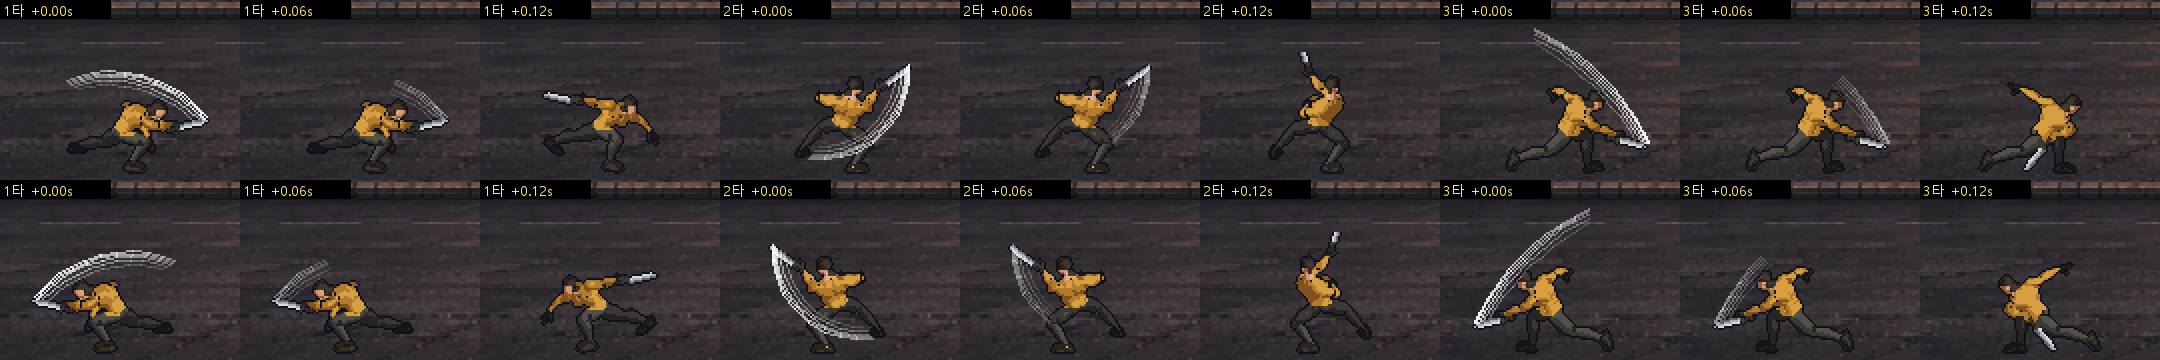
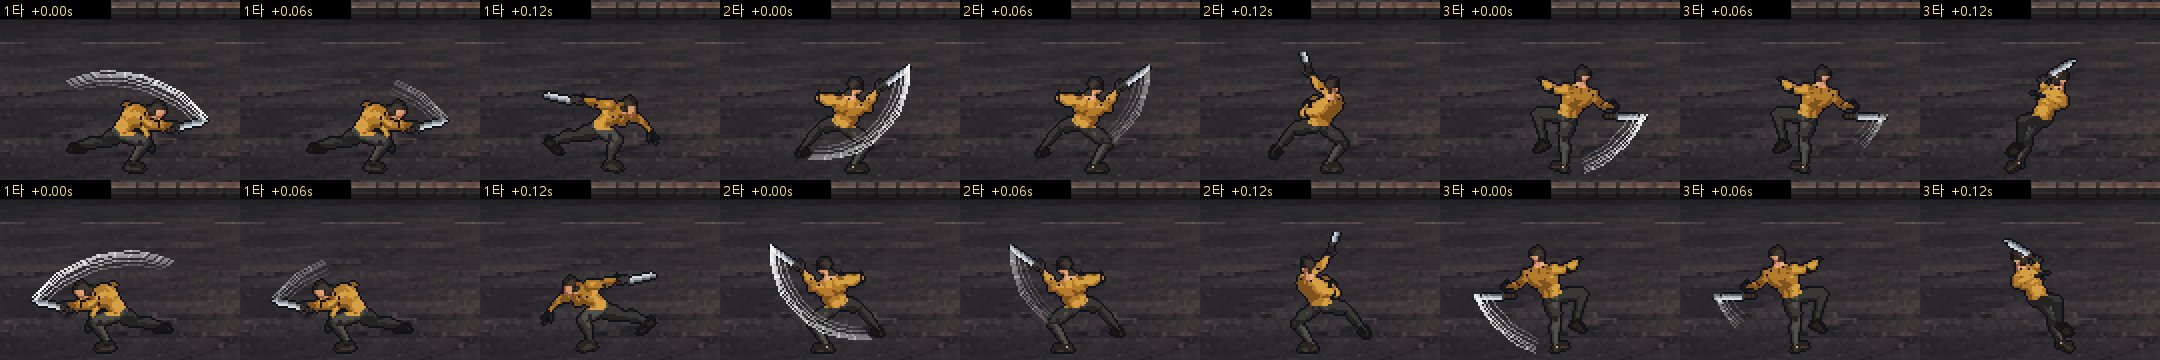
3타를 찌르기로, 크게 내려치기는 연속 베기 해제 전용(finisher)

diff --git a/tools/blender/render_character.py b/tools/blender/render_character.py
@@ -31,14 +31,15 @@ PASSES = [
      ["idle=4", "sneak_idle=4", "walk=12", "sneak=12", "run=12", "hurt=3", "down=5", "pickup=4"],
      ["--shift-for", "down=16"]),
     (LIB2,
-     # Machete combo (user order 2026-11-12, "1st sweep, 2nd rising cut, 3rd chop down"):
-     # 1st a quick sweep (B, wind-up cut off), 2nd the rising cut (A from its crouch on,
-     # fewer frames), 3rd the finisher of the pack's own combo (Sword_Regular_Combo: after
-     # A and B it raises the blade overhead and steps in with a diagonal chop), so all three
-     # come from one animated combo and flow together (2026-11-13: Sword_Attack did not).
+     # Machete combo: 1st a quick sweep (B, wind-up cut off), 2nd the rising cut (A from its
+     # crouch on, fewer frames), 3rd a thrust (C up to the stab, its end as the recovery) -
+     # 2026-11-13 "the 3rd hit is too dynamic, make it like the 1st and 2nd".
+     # finisher: the big overhead chop (the finisher of the pack's own Sword_Regular_Combo),
+     # now only for the time-warp release that looses the flurry.
      ["swing=Sword_Regular_B@2-13,Sword_Regular_B_Rec", "swing2=Sword_Regular_A@4-,Sword_Regular_A_Rec@7-23",
-      "swing3=Sword_Regular_Combo@31.5-34.5,Sword_Regular_Combo@37.6-41,Sword_Regular_Combo@51-72"],
-     ["swing=4,3", "swing2=4,3", "swing3=2,2,3"],
+      "swing3=Sword_Regular_C@0-8,Sword_Regular_C@30-48",
+      "finisher=Sword_Regular_Combo@31.5-34.5,Sword_Regular_Combo@37.6-41,Sword_Regular_Combo@51-72"],
+     ["swing=4,3", "swing2=4,3", "swing3=4,3", "finisher=2,2,3"],
      []),
 ]
 

diff --git a/src/weapon.py b/src/weapon.py
@@ -22,8 +22,9 @@ Swing = namedtuple("Swing", "sheet duration contact damage reach depth arc push 
 # (combo finisher) that lands one feel class harder (hit-stop, shake, number; see hit_feel);
 # step: px the attacker steps forward into the blow (the art's lunge is pinned in place).
 
-Weapon = namedtuple("Weapon", "name swings combo_window sneak_multiplier")
-# combo_window: seconds after a swing's recovery starts in which a click continues the combo.
+Weapon = namedtuple("Weapon", "name swings combo_window sneak_multiplier finisher", defaults=(None,))
+# combo_window: seconds after a swing's recovery starts in which a click continues the combo;
+# finisher: the big blow the time-warp release swings (it looses the flurry, flurry.py).
 
 MACHETE = Weapon(
     name="마체테",
@@ -31,10 +32,11 @@ MACHETE = Weapon(
         # 1st and 2nd: quick, light blows; 3rd: the big chop with a real wind-up.
         Swing("swing", 0.46, 0.14, 2, 42, 20, pi / 3, 110, 0.72, False),    # quick sweep
         Swing("swing2", 0.50, 0.16, 2, 46, 22, pi / 3, 110, 0.73, False),   # rising cut
-        Swing("swing3", 0.68, 0.28, 6, 50, 24, pi / 3, 340, 0.74, True),    # finisher: overhead chop (in place)
+        Swing("swing3", 0.50, 0.20, 6, 46, 22, pi / 3, 260, 0.70, True),    # thrust (combo end)
     ),
     combo_window=0.25,
     sneak_multiplier=3,
+    finisher=Swing("finisher", 0.68, 0.28, 6, 50, 24, pi / 3, 340, 0.74, True),   # overhead chop
 )
 
 IMPACT_TIME = 0.18

diff --git a/src/player.py b/src/player.py
@@ -139,12 +139,12 @@ class Player:
             self.pick_up()
 
     def start_finisher(self):
-        """The time-warp release: the weapon's last swing, marked to loose a flurry."""
+        """The time-warp release: the weapon's finisher, marked to loose a flurry."""
         if self.state not in FREE_STATES:
             return False
         self.attack()
-        index = len(self.weapon.swings) - 1
-        self.swing = weapon.MeleeAttack(self.weapon.swings[index], (self.direction, 0), index)
+        index = len(self.weapon.swings) - 1          # no combo continues after it
+        self.swing = weapon.MeleeAttack(self.weapon.finisher, (self.direction, 0), index)
         self.swing.flurry = True
         return True
 
@@ -322,7 +322,7 @@ class Player:
     def draw_body(self):
         if self.charging:
             # The finisher's raised blade, held while the charge builds.
-            finisher = self.weapon.swings[-1]
+            finisher = self.weapon.finisher
             contact = finisher.contact / finisher.duration
             self.draw_pose(finisher.sheet, contact * 0.8, contact)
             return

diff --git a/assets/characters/CHARACTER_WORKFLOW.md b/assets/characters/CHARACTER_WORKFLOW.md
@@ -131,7 +131,8 @@
 | sneak | `Walk_Loop` 위에 `Crouch_Idle_Loop`를 30% 얹음(`Walk_Loop+Crouch_Idle_Loop*0.3`) | 12 | 2026-11-11 30%로 조정(처음 40%), 6→12칸. 섞을 때는 COMBINE(회전을 곱해 더함)을 써야 함. 단순 평균(REPLACE)은 다리가 뒤로 뒤집힘 |
 | swing (1타) | `Sword_Regular_B@2-13` 4칸 + 복귀 `Sword_Regular_B_Rec` 3칸 (두 번째 팩 UAL2) | 7 | 빠른 가로 베기(준비 동작 잘라냄). 맞는 칸 인덱스 1, `hold` 0.35. 2026-11-12 "첫 번째 동작을 가로 베기로" → 다시 1타 |
 | swing2 (2타) | `Sword_Regular_A@4-` 4칸 + 복귀 `Sword_Regular_A_Rec@7-23` 3칸 | 7 | 올려 베기: 숙인 자세에서 칼이 앞으로 올라감. 맞는 칸 인덱스 1, `hold` 0.35. 2026-11-12 "2타 올려 베기"로 3타에서 옮기며 6칸 → 4칸 |
-| swing3 (3타) | `Sword_Regular_Combo@31.5-34.5` 2칸 + `@37.6-41` 2칸 + `@51-72` 3칸 (두 번째 팩 UAL2) | 7 | 마무리 내려치기: 동작 팩의 3연타(`Sword_Regular_Combo` = 올려 베기 A → 가로 베기 B → 마무리)의 마지막 타. 2타가 끝난 칼을 든 자세에서 이어서 머리 위로 들었다(버팀) 파고들며 앞으로 내려침. 맞는 칸 인덱스 2, `hold` 0.3, `windup` [1, 1.8], `trail_from` 1. 2026-11-13 "3번째 동작 흐름이 1·2번과 안 어울린다"로 `Sword_Attack`(첫 번째 팩, 다른 화풍의 동작)에서 바꿈 |
+| swing3 (3타) | `Sword_Regular_C@0-8` 4칸 + `@30-48` 3칸 (두 번째 팩 UAL2) | 7 | 찌르기: 뒤로 빼기 → 내리기 → 앞으로 찌르기. 맞는 칸 인덱스 2, `hold` 0.35. 2026-11-13 "3타가 너무 다이내믹, 1·2번과 비슷하게"로 연타 마무리 내려치기에서 바꿈 |
+| finisher (연속 베기 해제) | `Sword_Regular_Combo@31.5-34.5` 2칸 + `@37.6-41` 2칸 + `@51-72` 3칸 | 7 | 머리 위로 들었다 내려치기(동작 팩 3연타의 마무리). 우클릭을 떼면 이 동작과 함께 연속 베기가 나간다. 맞는 칸 인덱스 2, `hold` 0.3, `windup` [1, 1.8], `trail_from` 1 |
 | run | `Jog_Fwd_Loop` | 12 | 2026-11-12 뛰기. 원래 5.87m/s(한 바퀴 0.92초에 5.39m), 게임 4.8m/s에서 걸은 거리로 재생 |
 | sneak_idle | `Idle_Loop` 위에 `Crouch_Idle_Loop`를 40% 얹음 | 4 | Shift만 누르고 서 있을 때. 시트가 없는 캐릭터는 `sneak` 첫 칸으로 대신함(`character_look.FALLBACK`) |
 | hurt | `Hit_Chest` | 3 | |
@@ -296,3 +297,4 @@
 | 2026-11-12 | 사용자 지시 "3번 동작이 쥬시하지 않다" | 3타를 `@0-7`(서기·빼기·머리 위) + `@10-13`(파고들기·내려침) + 복귀로 다시 자름. 맞는 칸을 칼이 땅까지 내려간 칸으로. 점검: ① 머리 위 칸이 가장 오래 보임 ② 파고드는 칸은 한순간 ③ 검로가 머리 위 → 앞 → 땅으로 이어짐 ④ 타격 별이 1·2타보다 큼. 게임 화면 `previews/chop_ingame.png` |
 | 2026-11-13 | 사용자 지시 "시안 만들기"(적 콘셉트: 피폭 한계를 넘어 죽은 사람이 변이) | 피폭체 시안 1 "막 변한 직장인"(`costumes/infected_office.json` → `assets/characters/infected/`). 주인공과 같은 기본 몸 + 동작 팩의 좀비 동작(`Zombie_Idle_Loop`·`Zombie_Walk_Fwd_Loop`·`Zombie_Scratch`) + 맞기·쓰러짐. 2D 옷 그리기 도구가 의상 파일의 `clothes` 블록(색, 맨손, 후드·주머니 끔, 상처·얼룩 위치)을 읽도록 일반화, `render_character.py`에 의상별 동작 묶음(`actions`: hero / infected). 처음엔 상처·얼룩이 대칭 마름모라 십자·배지처럼 읽힘 → 손으로 정한 비대칭 모양(찢어진 틈 + 어두운 테두리, 흘러내린 얼룩)으로 고침. 주인공 시트는 픽셀 단위로 그대로임을 확인. 미리보기 `previews/infected_office_sheets.png`, `infected_office_compare.png`. **아직 게임에 연결하지 않음**(피폭체 코드는 예전 시트를 씀) |
 | 2026-11-13 | 사용자 지시 "공격 3번째 동작 흐름이 1, 2번 동작이랑 어울리지 않습니다. 다른 걸 찾아보세요" | 후보 4개(`Sword_Regular_Combo`, `Sword_Dash_RM`, `Sword_Regular_C`, 지금 `Sword_Attack`)를 그려 비교. `Sword_Regular_Combo`가 동작 팩 자체의 3연타이고 앞 두 타가 우리 1·2타(A·B)와 같아, 그 마지막 타를 3타로. 처음 자른 구간은 칼이 앞에 닿는 칸(37~38프레임)을 건너뛰어 다시 자름. 점검: ① 2타 마지막 칸(칼을 든 자세)과 3타 첫 칸이 이어짐 ② 맞는 칸에서 칼이 앞 아래 ③ 검로가 머리 위 → 앞. 미리보기 `previews/combo_sheets.png`, 게임 화면 `previews/chop_ingame.png` |
+| 2026-11-13 | 사용자 지시 "3타 공격이 너무 다이내믹함, 1·2번과 유사하게" → (찌르기 이미지 확인) → "일단 가자" | 3타를 찌르기(`Sword_Regular_C@0-8` + 복귀)로, 크게 내려치기는 새 시트 `finisher`로 옮겨 연속 베기 해제에만 씀. 점검: ① 1·2·3타 크기와 속도가 비슷 ② 찌르기 맞는 칸에서 칼이 앞 ③ 연속 베기 해제는 여전히 크게 내려침. 미리보기 `previews/combo_sheets.png` |

diff --git a/README.md b/README.md
@@ -31,9 +31,9 @@ python src/main.py
 
 피폭체와는 실시간으로 싸웁니다(2026-11-12 턴제에서 전환, [PRD](PRD.md) v3.0).
 
-- `좌클릭`: 마체테로 벱니다. 휘두르는 중에 다시 누르면 가로 베기 → 올려 베기 → 내려치기 3연타로 이어집니다. 1·2타는 빠르고 가볍고, 3타는 칼을 머리 위로 들었다가 크게 내려쳐 가장 셉니다(2·2·6).
+- `좌클릭`: 마체테로 벱니다. 휘두르는 중에 다시 누르면 가로 베기 → 올려 베기 → 찌르기 3연타로 이어집니다. 1·2타는 빠르고 가볍고, 3타 찌르기가 가장 셉니다(2·2·6).
 - 피폭체 머리 위에 `!`가 뜨면 곧 할퀴기가 옵니다. `Space` 대시 중에는 맞지 않으니 그 순간 피하세요. 맞으면 체력이 2 줄고 뒤로 밀립니다.
-- **변이 가속(우클릭):** 우클릭을 누르는 동안 주변 시간이 10% 속도로 느려지고, 주인공은 제자리에서 기를 모읍니다(0.3·0.8·1.4초에 1·2·3단). 떼면 내려치기와 함께 앞쪽에 연속 베기가 그어졌다가 하나씩 터집니다(1단 4번·2m, 2단 7번·3m, 3단 12번·4m). 모으는 중에는 좌클릭이 막히고, Space로 공격 없이 풀며 피할 수 있습니다. 누르는 동안과 벨 때마다 **피폭 수치**가 오르고, 수치가 높을수록 연속 베기 피해가 커집니다(30% 이상 1.3배, 60% 이상 1.6배, 90% 이상 2배). 100%에 닿으면 가속이 강제로 풀리고 체력 4를 잃으며 수치가 70%로 내려갑니다. 90% 이상에서는 2초마다 체력 1이 깎이고, 쓰지 않으면 1.5초 뒤부터 초당 2%씩 내려갑니다.
+- **변이 가속(우클릭):** 우클릭을 누르는 동안 주변 시간이 10% 속도로 느려지고, 주인공은 제자리에서 기를 모읍니다(0.3·0.8·1.4초에 1·2·3단). 떼면 내려치기와 함께 앞쪽에 연속 베기가 그어졌다가 하나씩 터집니다(1단 4번·2m, 2단 7번·3m, 3단 12번·4m). 모으는 중에는 좌클릭이 막히고, Space로 공격 없이 풀며 피할 수 있습니다. 누르는 동안 **피폭 수치**가 초당 15%씩 오르고, 수치가 높을수록 연속 베기 피해가 커집니다(30% 이상 1.3배, 60% 이상 1.6배, 90% 이상 2배). 100%에 닿으면 가속이 강제로 풀리고 체력 4를 잃으며 수치가 70%로 내려갑니다. 90% 이상에서는 2초마다 체력 1이 깎이고, 쓰지 않으면 1.5초 뒤부터 초당 2%씩 내려갑니다.
 - **완벽 회피:** 할퀴기가 들어오기 직전(0.2초 안)에 대시하면 하얀 고리와 함께 잠깐 느린 화면이 되고, 1.2초 안에 맞힌 다음 공격이 **반격**(피해 2배)이 됩니다. 반격 시간에 공격하면 피한 피폭체에게 자동으로 파고들며(최대 2m) 벱니다.
 - 들키기 전에 가까이 다가가 휘두르면 **기습**으로 3배 피해를 줍니다.
 - 맞힐 때마다 피해 숫자가 뜨고, 피해가 클수록 멈칫하는 시간과 화면 흔들림이 커집니다(모든 공격에 공통).

diff --git a/PRD.md b/PRD.md
@@ -19,6 +19,7 @@
 
 - **v3.0 (2026-11-12) — 전투를 실시간으로 되돌림.** 턴제(BG3식)의 재미는 매 턴 고를 선택지(주문·기술·환경·동료 조합)가 많은 데서 나오는데, 2D 학기 과제의 콘텐츠량으로는 "다가가 때리고 주사위를 기다리는" 반복이 되어 재미가 반감된다고 판단했다(사용자 결정). 1차 발표대로 **실시간 근접 전투**(공격 예고를 보고 회피·반격)로 간다. 선택의 재미는 전투 밖으로 옮긴다: 싸울지 피할지(은신·기습·우회), 생존자 관계. 혼자 싸우는 주인공으로 시작하고 동료는 지원 역할로 다시 정한다. 주무기는 **마체테**(빠른 베기 연타, 2026-11-12 결정). 무기는 데이터로 만들어 나중에 소방 도끼·쇠파이프 등을 더한다. 턴제 코드는 지우지 않고 보관한다. 아래 12절(턴제 전투)은 실시간 설계로 다시 쓸 때까지 참고용이다.
 - **v3.1 연타 리듬 (2026-11-12, 사용자 지시)** — 연타는 뒤로 갈수록 동작이 커진다. 1타 가로 베기·2타 내지르기는 빠르고 가벼운 타(처음 0.32·0.34초 → v3.2에서 0.4초, 피해 2), 3타 올려 베기는 숙였다가 크게 베어 올리는 마무리(0.66초, 0.26초에 닿음, 피해 6, 밀어내기 2배 이상). 마무리 타는 무기 데이터의 `heavy` 표시로 히트스톱·흔들림·숫자가 한 단계 커진다(모든 무기 공통 규칙, `hit_feel.weight`). 기습은 첫 타 기준 2×3=6.
+- **v3.15 3타는 찌르기, 크게 내려치기는 연속 베기 전용 (2026-11-13, 사용자 "3타 공격이 너무 다이내믹함, 1·2번과 유사하게")** — 3타 찌르기(0.5초, 0.2초에 닿음, 피해 6), 크게 내려치기는 무기 데이터의 `finisher`(우클릭 해제 때만). 평소 연타는 차분하게, 변이 가속은 화려하게 나뉜다.
 - **v3.14 우클릭 차징과 피폭 게이지 (2026-11-13, 사용자 결정, 차징 중 동작은 논의 중)** — "우클릭으로 차징이 가능해, 다만 게이지가 있어서 점점 올라가, 그럴수록 세지는데, 게이지가 올라갈수록 시야 흐려짐 같은 디버프가 생기는 거지." → "게이지는 피폭 수치, 나머지는 말한 대로."
   - **게이지 = 피폭 수치.** 차징하는 동안 오르고(크게 맞을 때도 조금), 공격 뒤에도 남는다. 가만히 두면 아주 천천히 내려가고, 억제 주사기로 크게 내린다.
   - **단계:** 0~30% 기본 / 30~60% 차징 공격 더 셈 + 화면 가장자리 어두워짐(시야 좁아짐) / 60~90% 훨씬 셈 + 화면이 초록빛으로 흐려지고 일렁임 / 90~100% 최대 + 체력이 서서히 깎임 / 100% 피폭체가 됨(게임 오버) 또는 큰 체력 손실 후 강제로 낮아짐(정할 것).

diff --git a/PLAN.md b/PLAN.md
@@ -147,6 +147,8 @@
 
 - **2026-11-12 · 공기·총소리 요소 제외** — "어떤 게 좋다고 생각하세요?"에 A 중심·옆 시점 유지·어둠+손전등을 추천 → "공기 요소는 제외하죠, 총소리가 적을 부르는 요소도 제외하죠." 공기 잔량은 계속 빼고(2026-11-10 결정 유지), 총소리로 적을 부르는 규칙도 넣지 않는다.
 
+- **2026-11-13 · 3타 찌르기** — "3타 공격이 너무 다이내믹함, 1·2번과 유사하게 만들면 될 것 같다" → "찌르기 이미지?" → "일단 가자." 3타는 찌르기, 크게 내려치기는 연속 베기 해제 전용. PRD v3.15.
+
 - **2026-11-13 · 우클릭 차징 + 피폭 게이지** — "스킬 같은 전투 방식을 어떻게 해야 재미있을까?" → "우클릭으로 차징, 게이지가 올라갈수록 세지고 시야 흐려짐 같은 디버프" → 구현 시작 중 "나랑 기획을 어떻게 할지 우선 이야기를 해 보자"로 멈춤 → "게이지는 피폭 수치, 게이지는 말한 대로, 차징 중은 어떻게 할지 생각해 보자." → "차징을 할 때 주변 시간이 느려지는 거지, 산데비스탄처럼" → "공격은 나)가 좋을 것 같음"(떼면 돌진하며 베고 지나가기) → "주변 시간은 거의 완전히 멈춰야 함, 전투 도중 피할 때도 쓰게." → (짧게 누르면 회피 안에) "컨트롤이 어려울 것 같은데" → "그냥 우클릭을 누르면 바로 차징, 떼면 바로 공격." → "멈췄을 때 걸어 다닌다고? 아냐… 시간을 느리게, 그동안 공격하고 풀리면서 그 공격들이 들어가는 거지" → A안(제자리 모으기 + 돌진)과 B안(느린 시간 중 연타, 풀릴 때 한꺼번에 터짐) 비교 → **"B안으로 가자."** → "주인공도 살짝 빨라지면 좋겠다" → 구현 계획 설명 후 "ㄱㄱ", "그거 이외에도 아까 이야기 나눴던 것들 싹 다 진행하세요", "한꺼번에 다 하지 말고 나눠서 단계를 했으면 보여 주면 좋겠습니다." → 1단계(가속·쌓기·터뜨리기)부터 단계마다 보여 드리고 진행 → 1단계를 보고 "아쉬운데" → "직접 때리는 과정을 생략하고 차징이 끝나면 그 자리에 연속 베기가 뜨게" → "ㅇㅇ" → 연속 베기로 바꿈. PRD v3.14.
 
 - **2026-11-13 · Shift 달리기, Ctrl 은신** — "은신은 Ctrl로 하고 Shift를 달리기로 하죠." Space는 대시만. HUD 안내·README·PRD 갱신.

diff --git a/docs/DEVLOG.md b/docs/DEVLOG.md
@@ -119,3 +119,4 @@
 - **우클릭 차징 + 피폭 게이지(기획 중):** 우클릭을 누르고 있으면 차징, 게이지(=피폭 수치)가 오를수록 세지지만 시야가 흐려지는 등 디버프. 게이지 규칙은 정했고 차징 중 동작을 함께 정하는 중. 코드는 아직 바꾸지 않았다.
 - **변이 가속 1단계:** 우클릭을 누르는 동안 세상 10%, 주인공 1.3배. 그동안 벤 공격은 적 몸에 초록 베인 자국으로 쌓이고, 떼면 하나씩 빠르게 터진다. 피폭 수치가 오르고 단계에 따라 터지는 피해가 커진다. 게임 시간을 "세상"과 "주인공" 두 개로 나눠서 적·이펙트는 손대지 않고 느려지게 했다. 자동 점검: 시간 비율, 가속 중 피해 없음, 3연격 저장, 해제 시 합계 피해, 100% 한계 처리.
 - **연속 베기로 변경:** 1단계를 보고 "아쉽다"는 의견. 원인(시간이 느려진 게 안 느껴짐, 자국이 약함, 터지는 순간이 평범함)을 정리하고, 사용자 안대로 직접 베는 과정을 없앴다. 우클릭 동안 제자리에서 1~3단으로 모으고, 떼면 내려치기 → 하얀 번쩍 → 앞 범위에 베기 선이 순식간에 그어졌다가 하나씩 터진다. 시간이 느려질 때 화면이 푸르게 바래고 가장자리가 어두워지며, 주인공 주변에 단계별 초록 고리. 처음엔 베기 선이 두꺼운 판자처럼 흩어져 보여 가늘고 끝이 빛나는 선으로 바꾸고 대부분 적을 관통하게 했다.
+- **3타 찌르기:** 3타가 너무 다이내믹하다는 의견으로 1·2타와 비슷한 크기의 찌르기로 바꾸고, 크게 내려치기는 무기 데이터의 `finisher`로 옮겨 연속 베기 해제에만 쓴다.
